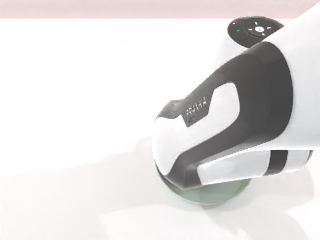
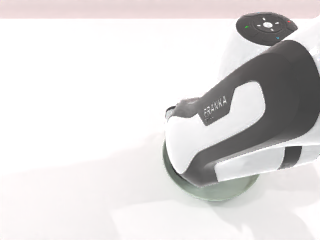
finished find_the_plate task adaption

Changed region(s): [[0.4688, 0.0292, 1.0, 0.9042], [0.9375, 0.0, 1.0, 0.0875]]

diff --git a/envs/find_the_plate.py b/envs/find_the_plate.py
@@ -26,11 +26,11 @@ class find_the_plate(Base_Task):
             modelname="003_plate",
             model_id=0,
             convex=True,
-            scale=2.2
+            scale=2.4
         )
         self.plate.set_mass(0.05)
 
-        pose = (sapien.Pose([plate_pos.p[0]+ 0.03, plate_pos.p[1] + 0.02, 0.785], [0.707109, 0.707104, 0, 0]),
+        pose = (sapien.Pose([plate_pos.p[0]+ 0.05, plate_pos.p[1] + 0.04, 0.785], [0.707109, 0.707104, 0, 0]),
                 sapien.Pose([plate_pos.p[0]- 0.05, plate_pos.p[1], 0.762], [0.707109, 0.707104, 0, 0]))
 
 
@@ -60,9 +60,6 @@ class find_the_plate(Base_Task):
         # Use only right arm as specified
         right_arm = ArmTag("right")
         
-        # Initial observation
-        self.save_camera_images(task_name="find_the_plate", step_name="step1_initial_scene_state", generate_num_id="generate_num_3")
-        
         # Get plate position to use as reference
         plate_pose = self.plate.get_pose()
         plate_position = plate_pose.p
@@ -80,15 +77,12 @@ class find_the_plate(Base_Task):
                 grasp_dis=0
             )
         )
-        
-        # Observation after grasping mug
-        self.save_camera_images(task_name="find_the_plate", step_name="step2_mug_grasped", generate_num_id="generate_num_3")
-        
+                
         # Lift mug up to avoid collision
         self.move(
             self.move_by_displacement(
                 arm_tag=right_arm,
-                z=0.1,
+                z=0.3,
                 move_axis='world'
             )
         )
@@ -109,7 +103,7 @@ class find_the_plate(Base_Task):
                 actor=self.mug,
                 arm_tag=right_arm,
                 target_pose=mug_target_pose,
-                functional_point_id=1,  # Use bottom functional point for placement
+                functional_point_id=0,  # Use bottom functional point for placement
                 pre_dis=0.1,
                 dis=0.02,
                 is_open=True,
@@ -117,10 +111,7 @@ class find_the_plate(Base_Task):
                 pre_dis_axis='fp'
             )
         )
-        
-        # Observation after placing mug
-        self.save_camera_images(task_name="find_the_plate", step_name="step3_mug_placed", generate_num_id="generate_num_3")
-        
+                
         # Lift gripper after placing mug
         self.move(
             self.move_by_displacement(
@@ -141,14 +132,11 @@ class find_the_plate(Base_Task):
             )
         )
         
-        # Observation after grasping hamburg
-        self.save_camera_images(task_name="find_the_plate", step_name="step4_hamburg_grasped", generate_num_id="generate_num_3")
-        
         # Lift hamburg up to avoid collision
         self.move(
             self.move_by_displacement(
                 arm_tag=right_arm,
-                z=0.1,
+                z=0.2,
                 move_axis='world'
             )
         )
@@ -169,7 +157,6 @@ class find_the_plate(Base_Task):
                 actor=self.hamburg,
                 arm_tag=right_arm,
                 target_pose=hamburg_target_pose,
-                functional_point_id=0,  # Use bottom functional point for placement
                 pre_dis=0.1,
                 dis=0.02,
                 is_open=True,
@@ -192,10 +179,6 @@ class find_the_plate(Base_Task):
         
         # Return arm to origin
         self.move(self.back_to_origin(arm_tag=right_arm))
-        
-        # Final observation
-        self.save_camera_images(task_name="find_the_plate", step_name="step6_final_scene_state", generate_num_id="generate_num_3")
-        self.is_finshed_flag = True
     def check_success(self):
         # both on the table
         return abs(self.mug.get_pose().p[2] - self.plate.get_pose().p[2]) < 0.02 and\

diff --git a/script/collect_data.py b/script/collect_data.py
@@ -128,9 +128,6 @@ def run(TASK_ENV, args):
             try:
                 TASK_ENV.setup_demo(now_ep_num=suc_num, seed=epid, **args)
                 TASK_ENV.play_once()
-                while True:
-                    if TASK_ENV.is_finshed_flag:
-                        break
 
                 if TASK_ENV.plan_success and TASK_ENV.check_success():
                     print(f"simulate data episode {suc_num} success! (seed = {epid})")
